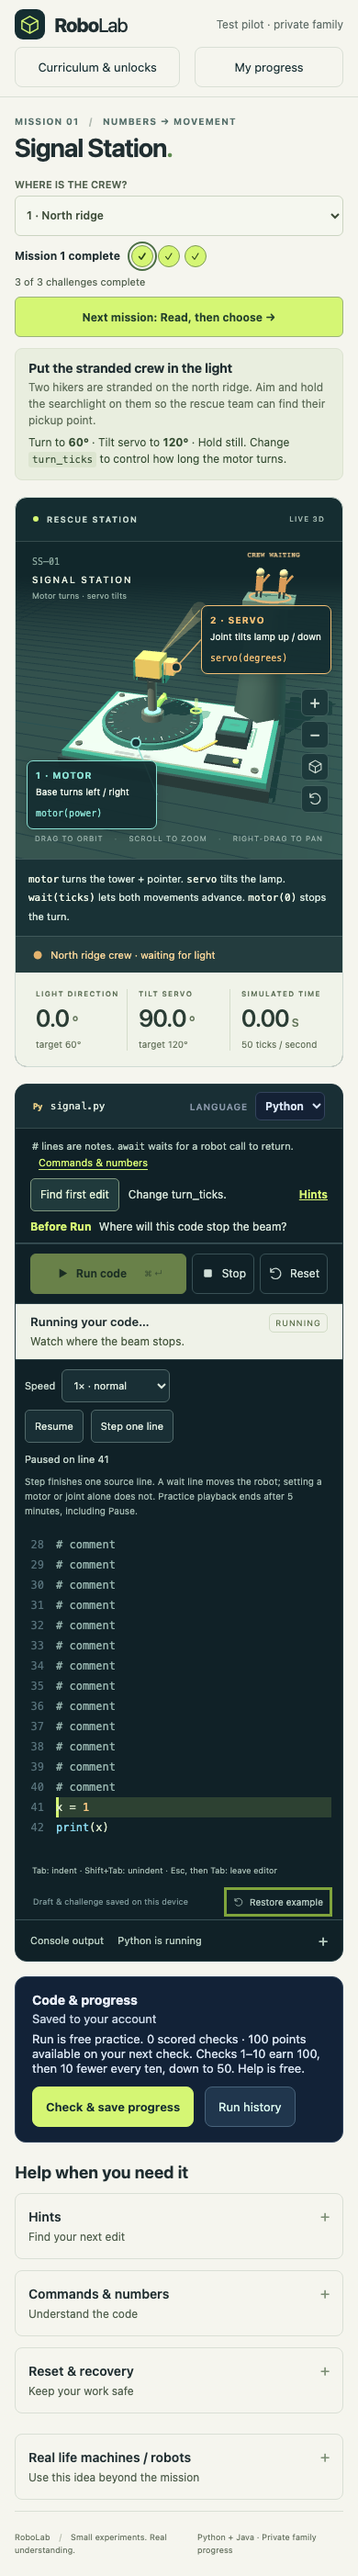
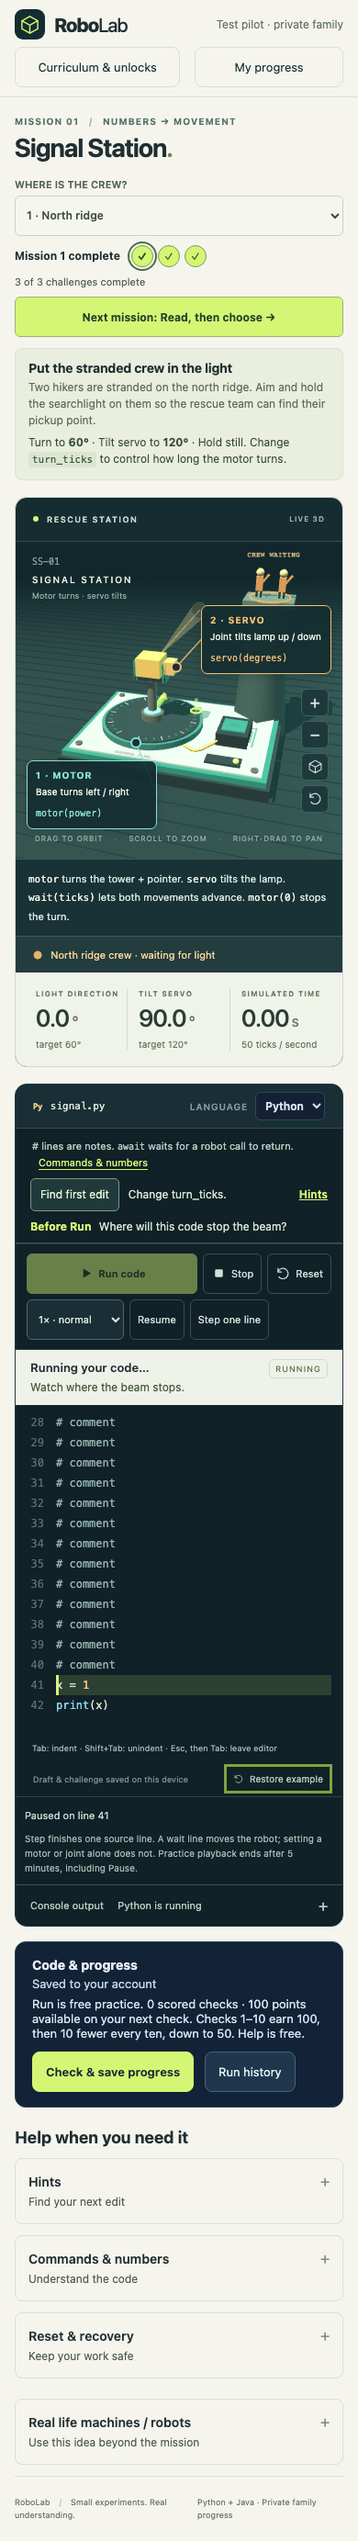
Preserve Python browser callbacks and compact playback controls

Changed region(s): [[0.0308, 0.0, 0.9538, 0.9635]]

diff --git a/runtime/worker.js b/runtime/worker.js
@@ -75,10 +75,22 @@ sys.modules['robot'] = robot
     const tracing = await py.runPythonAsync(`
 from pyodide.ffi import can_run_sync, run_sync
 from _robot_rpc import trace as _trace_line
+_callback_notice = False
+def _can_trace():
+    global _callback_notice
+    if can_run_sync():
+        return True
+    # A browser may call a Python proxy synchronously. Such an entry cannot
+    # suspend: preserve its original semantics instead of crashing the worker.
+    if not _callback_notice:
+        print('Browser callbacks run without line controls; their synchronous entry cannot pause.')
+        _callback_notice = True
+    return False
 def _student_trace(code, line):
     if code.co_filename != 'student.py':
         return sys.monitoring.DISABLE
-    run_sync(_trace_line(line))
+    if _can_trace():
+        run_sync(_trace_line(line))
 def _student_return(code, offset, result):
     if code.co_filename != 'student.py':
         return sys.monitoring.DISABLE
@@ -87,7 +99,7 @@ def _student_return(code, offset, result):
     caller = sys._getframe(1).f_back
     while caller and caller.f_code.co_filename != 'student.py':
         caller = caller.f_back
-    if caller:
+    if caller and _can_trace():
         run_sync(_trace_line(caller.f_lineno))
 can_run_sync()
 `);

diff --git a/src/main.ts b/src/main.ts
@@ -71,7 +71,11 @@ const code = el<HTMLTextAreaElement>('code');
 // Keep Run and help above the long commented program.
 const runBar=document.querySelector('.run-bar')!;
 el('code-panel').insertBefore(runBar,document.querySelector('.editor-wrap'));
-runBar.after(document.querySelector('.execution-controls')!);
+// Keep the controls in the existing Run row so code stays in the laptop
+// viewport; the live line status and teaching explanation stay below the editor.
+const playbackControls=document.querySelector('.execution-controls')!;
+runBar.append(playbackControls.querySelector('label')!,el('pause'),el('step'));
+runBar.setAttribute('role','group');runBar.setAttribute('aria-label','Run and execution controls');
 runBar.after(el('feedback'),el('run-followup'));
 // Links open the relevant disclosure and move keyboard focus to its destination.
 document.addEventListener('click',event=>{

diff --git a/src/style.css b/src/style.css
@@ -333,3 +333,11 @@ h1 {font-size:30px;line-height:1.2;letter-spacing:-1px;margin:6px 0 0;}
 .execution-controls small{font-size:10px;line-height:1.6;color:#a5bbb2}
 @media(forced-colors:active){.execution-line{background:Canvas;border:2px solid Highlight;z-index:0}.execution-controls{color:CanvasText}}
 @media(max-width:420px){.execution-controls{padding:10px}.execution-controls label{flex-basis:100%}}
+
+/* Reuse the existing Run row instead of pushing the first editable lines down. */
+.run-bar{flex-wrap:wrap;gap:6px;padding-inline:12px}
+.run-bar button{padding-inline:8px;gap:5px;font-size:11px}
+.run-bar button.primary{min-width:95px}
+.run-bar kbd{display:none}
+.run-bar label{display:flex;align-items:center;font-size:0}
+.run-bar select{width:106px;min-height:44px;background:#192f35;color:#deeadf;border-color:#52696a;font-size:11px}

diff --git a/tests/browser/station.spec.ts b/tests/browser/station.spec.ts
@@ -225,6 +225,7 @@ await asyncio.sleep(0.2)`);
   const consoleText=await page.getByLabel('Python console').innerText();
   expect(consoleText).toContain('APP FETCH BLOCKED'); expect(consoleText).toContain('NETWORK BLOCKED'); expect(consoleText).toContain('SOCKET BLOCKED'); expect(consoleText).not.toContain('UNSAFE');
   expect(consoleText).toContain('HAS DOCUMENT False'); expect(consoleText).toContain('HAS LOCALSTORAGE False'); expect(consoleText).toContain('HAS PARENT False');
+  expect(consoleText).toContain('Browser callbacks run without line controls');
   expect(consoleText).toContain('CSP worker-src');
   expect(consoleText).toContain('CSP connect-src');
 });

diff --git a/docs/EXECUTION-TRACING.md b/docs/EXECUTION-TRACING.md
@@ -10,7 +10,7 @@ Pause freezes line progression and model ticks, including halfway through wait. 
 
 Normal speed: 80 ms line dwell and real-time ticks; slower settings increase dwell so learners can inspect decisions. Paused line means next to execute; running wait means executing. Stop/Reset/error/context change retire highlights and pending callbacks. Editing remains possible; changed drafts show an explicit snapshot warning and hide the highlight until the draft matches the running snapshot. No selection, focus or undo changes from highlighting.
 
-Tracing is practice-only. Server checks execute original source with tracing disabled and retain existing score/isolation rules. Trace fields are untrusted, range/sequence/count bounded, and never update model state or award progress. Java uses JDI inside its existing sandbox; no debugger port is exposed outside it. Python uses native line tracing with Pyodide stack switching; browsers lacking that capability retain ordinary Run with a clear tracing-unavailable explanation. No silent fabricated trace.
+Tracing is practice-only. Server checks execute original source with tracing disabled and retain existing score/isolation rules. Trace fields are untrusted, range/sequence/count bounded, and never update model state or award progress. Java uses JDI inside its existing sandbox; no debugger port is exposed outside it. Python uses native line tracing with Pyodide stack switching; browsers lacking that capability retain ordinary Run with a clear tracing-unavailable explanation. Synchronous JavaScript→Python browser callbacks cannot suspend; their internal lines run without stepping and produce one explicit console notice. Ordinary Python functions/coroutines and every released lesson are traced. No silent fabricated trace.
 
 Bound practice to five minutes of playback (including Pause), 20 seconds of runtime work outside host-controlled replies, 10,000 line events and existing source/output/robot-command limits. Compilation retains its independent 45-second limit. Hosted practice leases/capabilities and package deadlines must cover the bounded playback plus compilation/cleanup (420-second leases cover the normal startup/playback/cleanup envelope; unknown late provider creation or failed cleanup still needs hosted qualification); score checks retain their existing deadlines.
 

diff --git a/docs/EXECUTION-TRACING-QA.md b/docs/EXECUTION-TRACING-QA.md
@@ -30,6 +30,7 @@ The designer/critic/model lenses retained purpose-first lessons and setters-vers
 
 - Unknown/late Sandbox.create resolution and failed cleanup remain provider-uncertainty boundaries. The gateway startup timer is not a proof of provider creation latency; lease arithmetic alone cannot establish cleanup.
 - Actual hosted JDI launch inside bubblewrap/private loopback; protected Function streaming, replies, Pause/Step/Stop and cleanup on the new packaged deadlines. Existing provider evidence predates this debugger.
+- Synchronous JavaScript-to-Python callbacks preserve their original behavior with an explicit console notice; their internal lines cannot pause. The real SOP/CSP browser fixture reproduces and verifies this recovery. Released lessons do not use this advanced interop.
 - Real non-Chromium/device acceptance. Python line controls require browser stack switching; ordinary Run is retained when unavailable. Java trace support is independent of that browser feature.
 - Java multi-threaded programs: released lessons are single-threaded; JDI suspends all debuggee threads at source boundaries. No concurrent-language-debugger claim is made.
 - A real learner explaining the relation between a highlighted wait, a powered motor, branch selection and loop repetition. Completion alone is not evidence of understanding.
